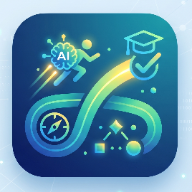
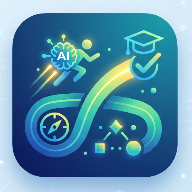
Added  project files

diff --git a/backend/src/server.js b/backend/src/server.js
@@ -22,7 +22,8 @@ const app = express();
 
 // Middlewares
 app.use(cors());
-app.use(express.json({ limit: '10mb' }));
+app.use(express.json({ limit: '50mb' }));
+app.use(express.urlencoded({ limit: '50mb', extended: true }));
 
 // Connect to Database (Handle gracefully if Mongo is offline)
 connectDB();